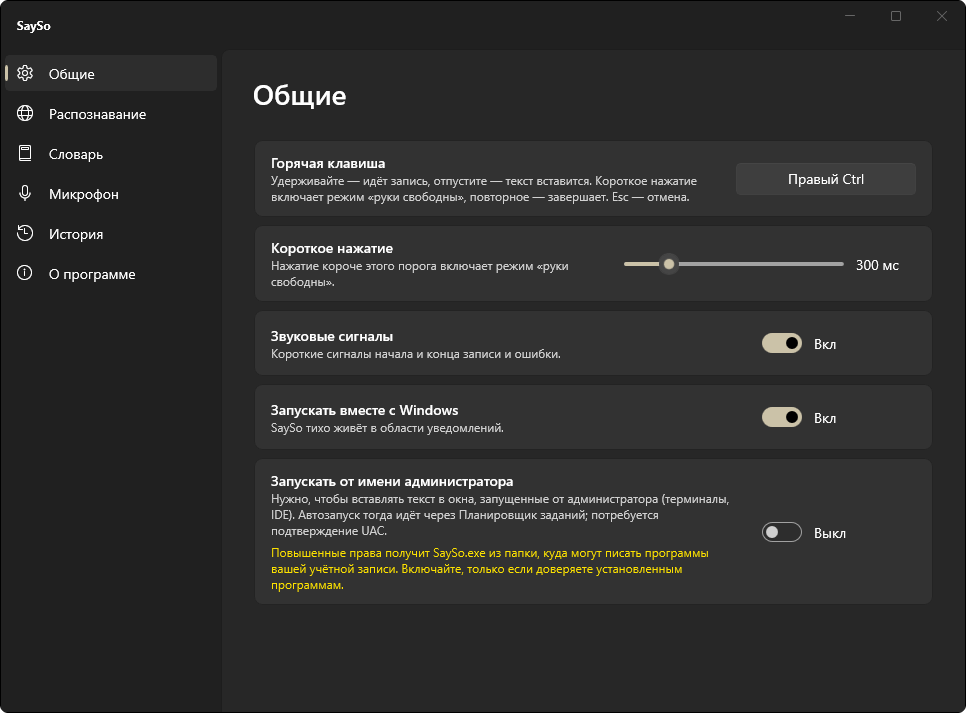
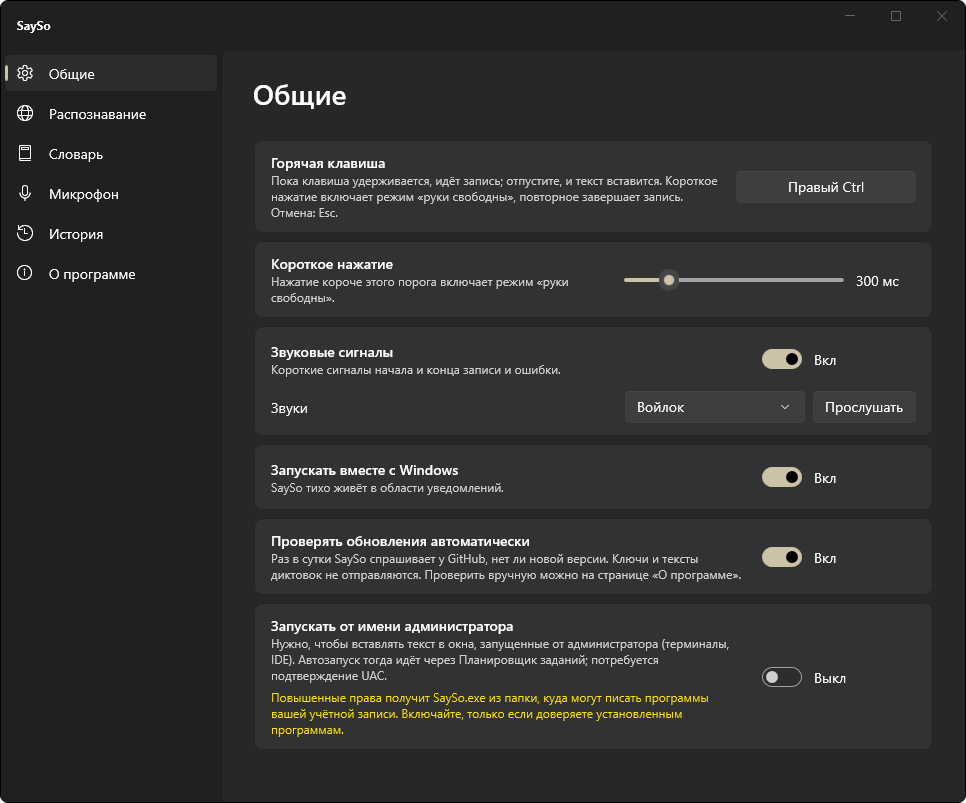
docs: переснятые скриншоты окна настроек (тексты без тире, карточка звуков), размер публикации

diff --git a/README.ru.md b/README.ru.md
@@ -146,7 +146,7 @@ SaySo запоминает выбранный микрофон. Выбранна
 | Окно настроек открыто (через 6 с после запуска) | 93,4 МБ | 147,5 МБ |
 | Окно настроек закрыто | процесса нет | процесса нет |
 
-Размер публикации: 66,6 МБ (`SaySo.exe` — 9,6 МБ).
+Размер публикации: 68,9 МБ (`SaySo.exe` — 11,9 МБ, из них около 2 МБ встроенные звуки).
 
 Демон сжимает рабочий набор после старта и после каждой сессии, поэтому его рабочий набор остаётся меньше 1 МБ, а показательнее столбец Private; окно настроек не сжимается. Строка про диктовку измерена без завершённого распознавания: реальная диктовка добавляет сетевые буферы (WebSocket/TLS/HTTP), так что ожидайте несколько больше.
 

diff --git a/README.md b/README.md
@@ -163,7 +163,7 @@ Measured on Windows 11 (x64), NativeAOT Release build:
 | Settings window (open, 6 s after launch) | 93.4 MB | 147.5 MB |
 | Settings window (closed) | process exits | process exits |
 
-Publish size: 66.6 MB (`SaySo.exe` is 9.6 MB).
+Publish size: 68.9 MB (`SaySo.exe` is 11.9 MB, of which about 2 MB are the built-in sounds).
 
 The daemon trims its working set after start and after each session, so its working set stays below 1 MB and *Private bytes* is the more telling column; the settings window is not trimmed. The dictation row was measured without a completed recognition: a real dictation adds network buffers (WebSocket/TLS/HTTP), so expect somewhat more.
 
